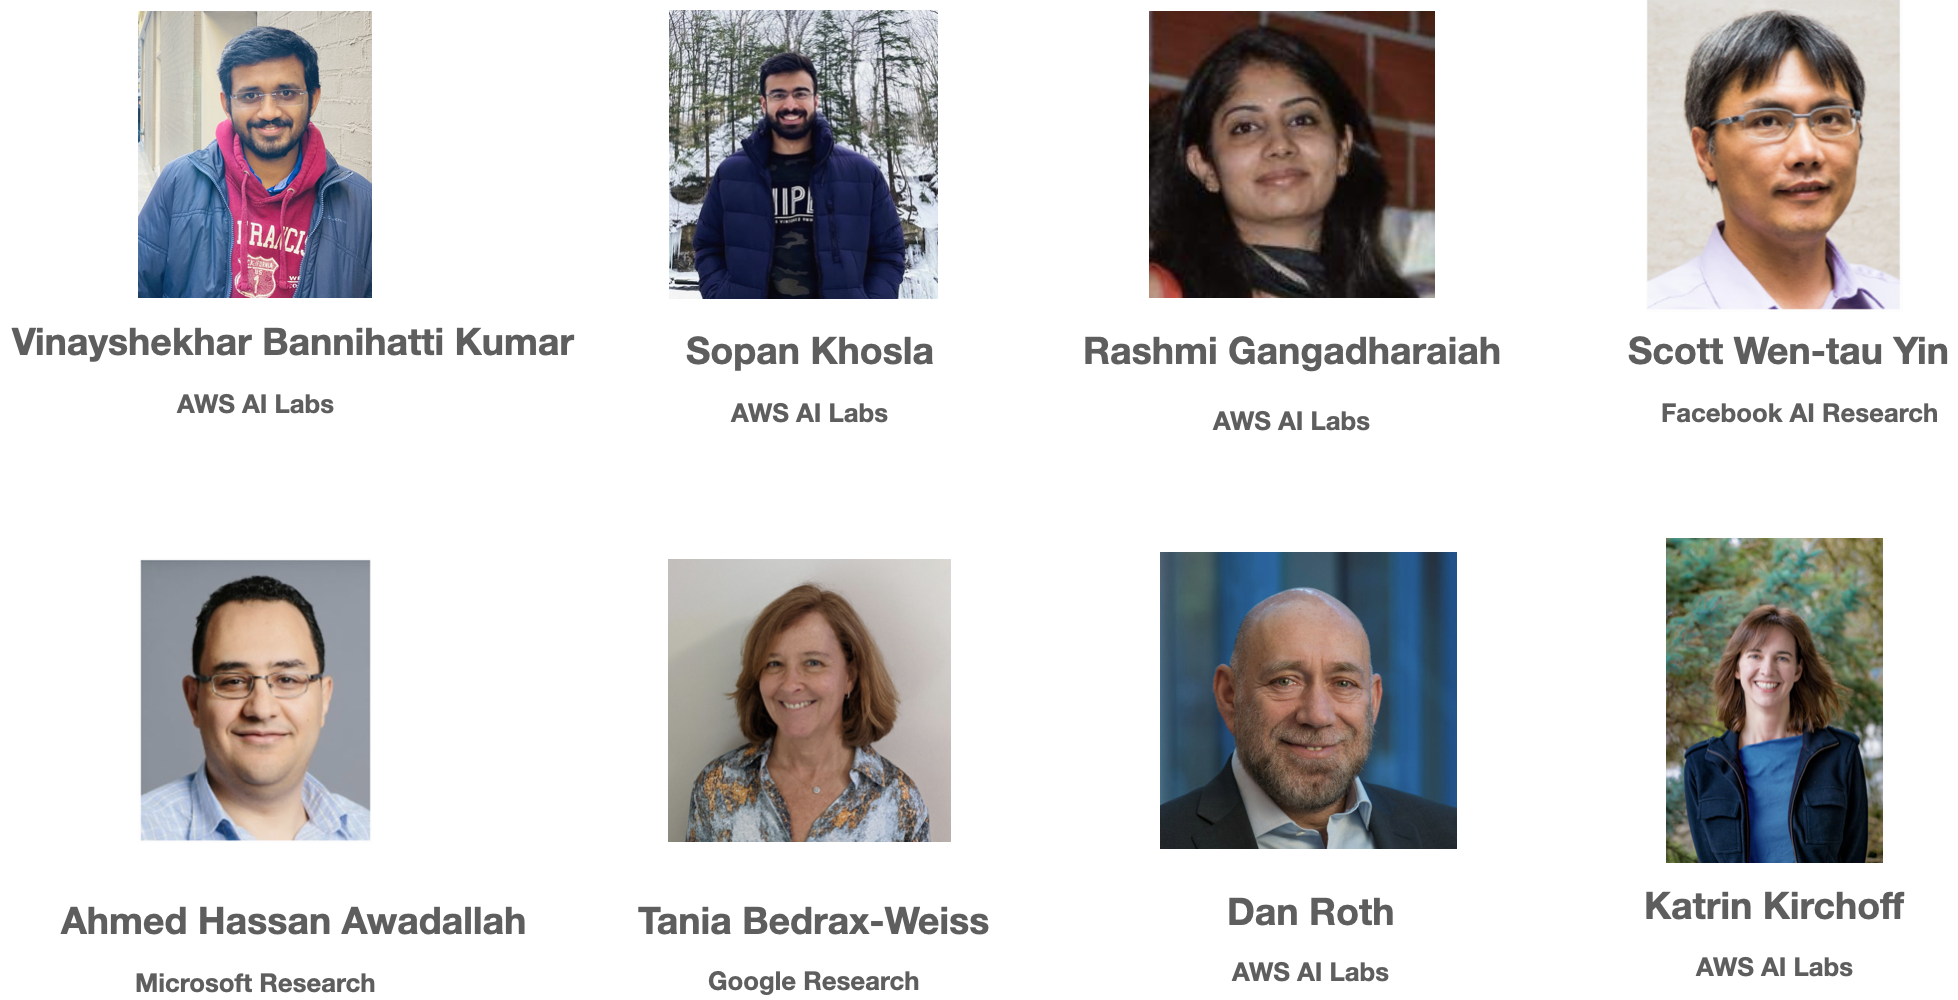
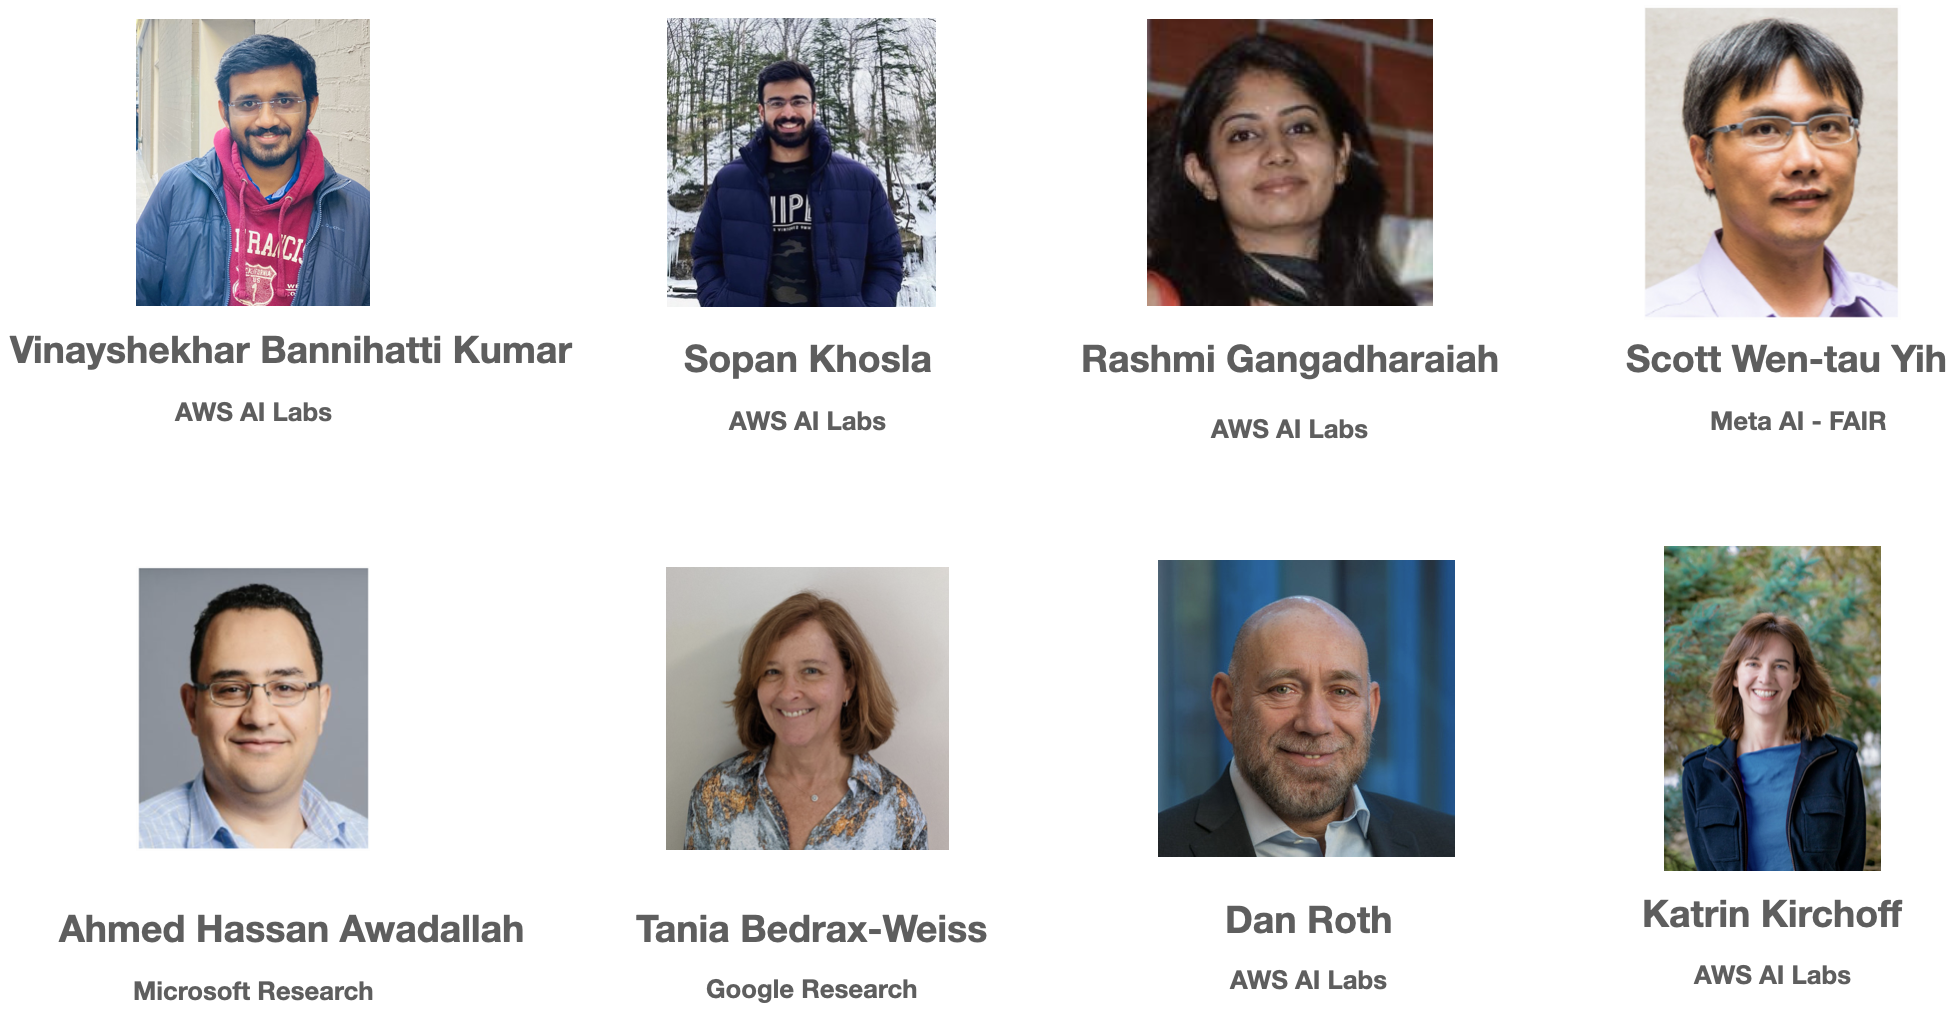
More updates

diff --git a/_site/0-overview.html b/_site/0-overview.html
@@ -154,7 +154,7 @@
   
 </figure>
 
-<p>The workshop is organized by <a href="https://vinayshekhar000.github.io/">Vinayshekhar Bannihatti Kumar</a> (AWS AI Labs), <a href="https://sopankhosla.github.io/">Sopan Khosla</a> (AWS AI Labs)，<a href="https://www.amazon.science/author/rashmi-gangadharaiah">Rashmi Gangadharaiah</a> (AWS AI Labs), <a href="http://scottyih.org/">Scott Wen-tau Yih</a> (Facebook AI Research), <a href="https://www.microsoft.com/en-us/research/people/hassanam/">Ahmed Hassan Awadallah</a> (Microsoft Research), <a href="https://research.google/people/105765/">Tania Bedrax-Weiss</a>(Google Research), <a href="https://scholar.google.com/citations?user=E-bpPWgAAAAJ&amp;hl=en">Dan Roth</a>(AWS AI Labs) and <a href="https://www.amazon.science/author/katrin-kirchhoff">Katrin Kirchoff</a> (AWS AI Labs)</p>
+<p>The workshop is organized by <a href="https://vinayshekhar000.github.io/">Vinayshekhar Bannihatti Kumar</a> (AWS AI Labs), <a href="https://sopankhosla.github.io/">Sopan Khosla</a> (AWS AI Labs)，<a href="https://www.amazon.science/author/rashmi-gangadharaiah">Rashmi Gangadharaiah</a> (AWS AI Labs), <a href="http://scottyih.org/">Scott Wen-tau Yih</a> (META AI - FAIR), <a href="https://www.microsoft.com/en-us/research/people/hassanam/">Ahmed Hassan Awadallah</a> (Microsoft Research), <a href="https://research.google/people/105765/">Tania Bedrax-Weiss</a> (Google Research), <a href="https://scholar.google.com/citations?user=E-bpPWgAAAAJ&amp;hl=en">Dan Roth</a> (AWS AI Labs) and <a href="https://www.amazon.science/author/katrin-kirchhoff">Katrin Kirchoff</a> (AWS AI Labs)</p>
 
 <p>For any questions, please email <a href="mailto: nli.at.aacl@gmail.com">nli.at.aacl@gmail.com</a></p>
 

diff --git a/0-overview.md b/0-overview.md
@@ -49,7 +49,7 @@ This workshop aims to bring together researchers and practitioners from differen
 # Organizers
 {% include figure.html file="organizing_commitee.png" alt="organizers" width="100%" %}
 
-The workshop is organized by [Vinayshekhar Bannihatti Kumar](https://vinayshekhar000.github.io/) (AWS AI Labs), [Sopan Khosla](https://sopankhosla.github.io/) (AWS AI Labs)，[Rashmi Gangadharaiah](https://www.amazon.science/author/rashmi-gangadharaiah) (AWS AI Labs), [Scott Wen-tau Yih](http://scottyih.org/) (Facebook AI Research), [Ahmed Hassan Awadallah](https://www.microsoft.com/en-us/research/people/hassanam/) (Microsoft Research), [Tania Bedrax-Weiss](https://research.google/people/105765/)(Google Research), [Dan Roth](https://scholar.google.com/citations?user=E-bpPWgAAAAJ&hl=en)(AWS AI Labs) and [Katrin Kirchoff](https://www.amazon.science/author/katrin-kirchhoff) (AWS AI Labs)
+The workshop is organized by [Vinayshekhar Bannihatti Kumar](https://vinayshekhar000.github.io/) (AWS AI Labs), [Sopan Khosla](https://sopankhosla.github.io/) (AWS AI Labs)，[Rashmi Gangadharaiah](https://www.amazon.science/author/rashmi-gangadharaiah) (AWS AI Labs), [Scott Wen-tau Yih](http://scottyih.org/) (META AI - FAIR), [Ahmed Hassan Awadallah](https://www.microsoft.com/en-us/research/people/hassanam/) (Microsoft Research), [Tania Bedrax-Weiss](https://research.google/people/105765/) (Google Research), [Dan Roth](https://scholar.google.com/citations?user=E-bpPWgAAAAJ&hl=en) (AWS AI Labs) and [Katrin Kirchoff](https://www.amazon.science/author/katrin-kirchhoff) (AWS AI Labs)
 
 For any questions, please email [nli.at.aacl@gmail.com](mailto: nli.at.aacl@gmail.com)
 
